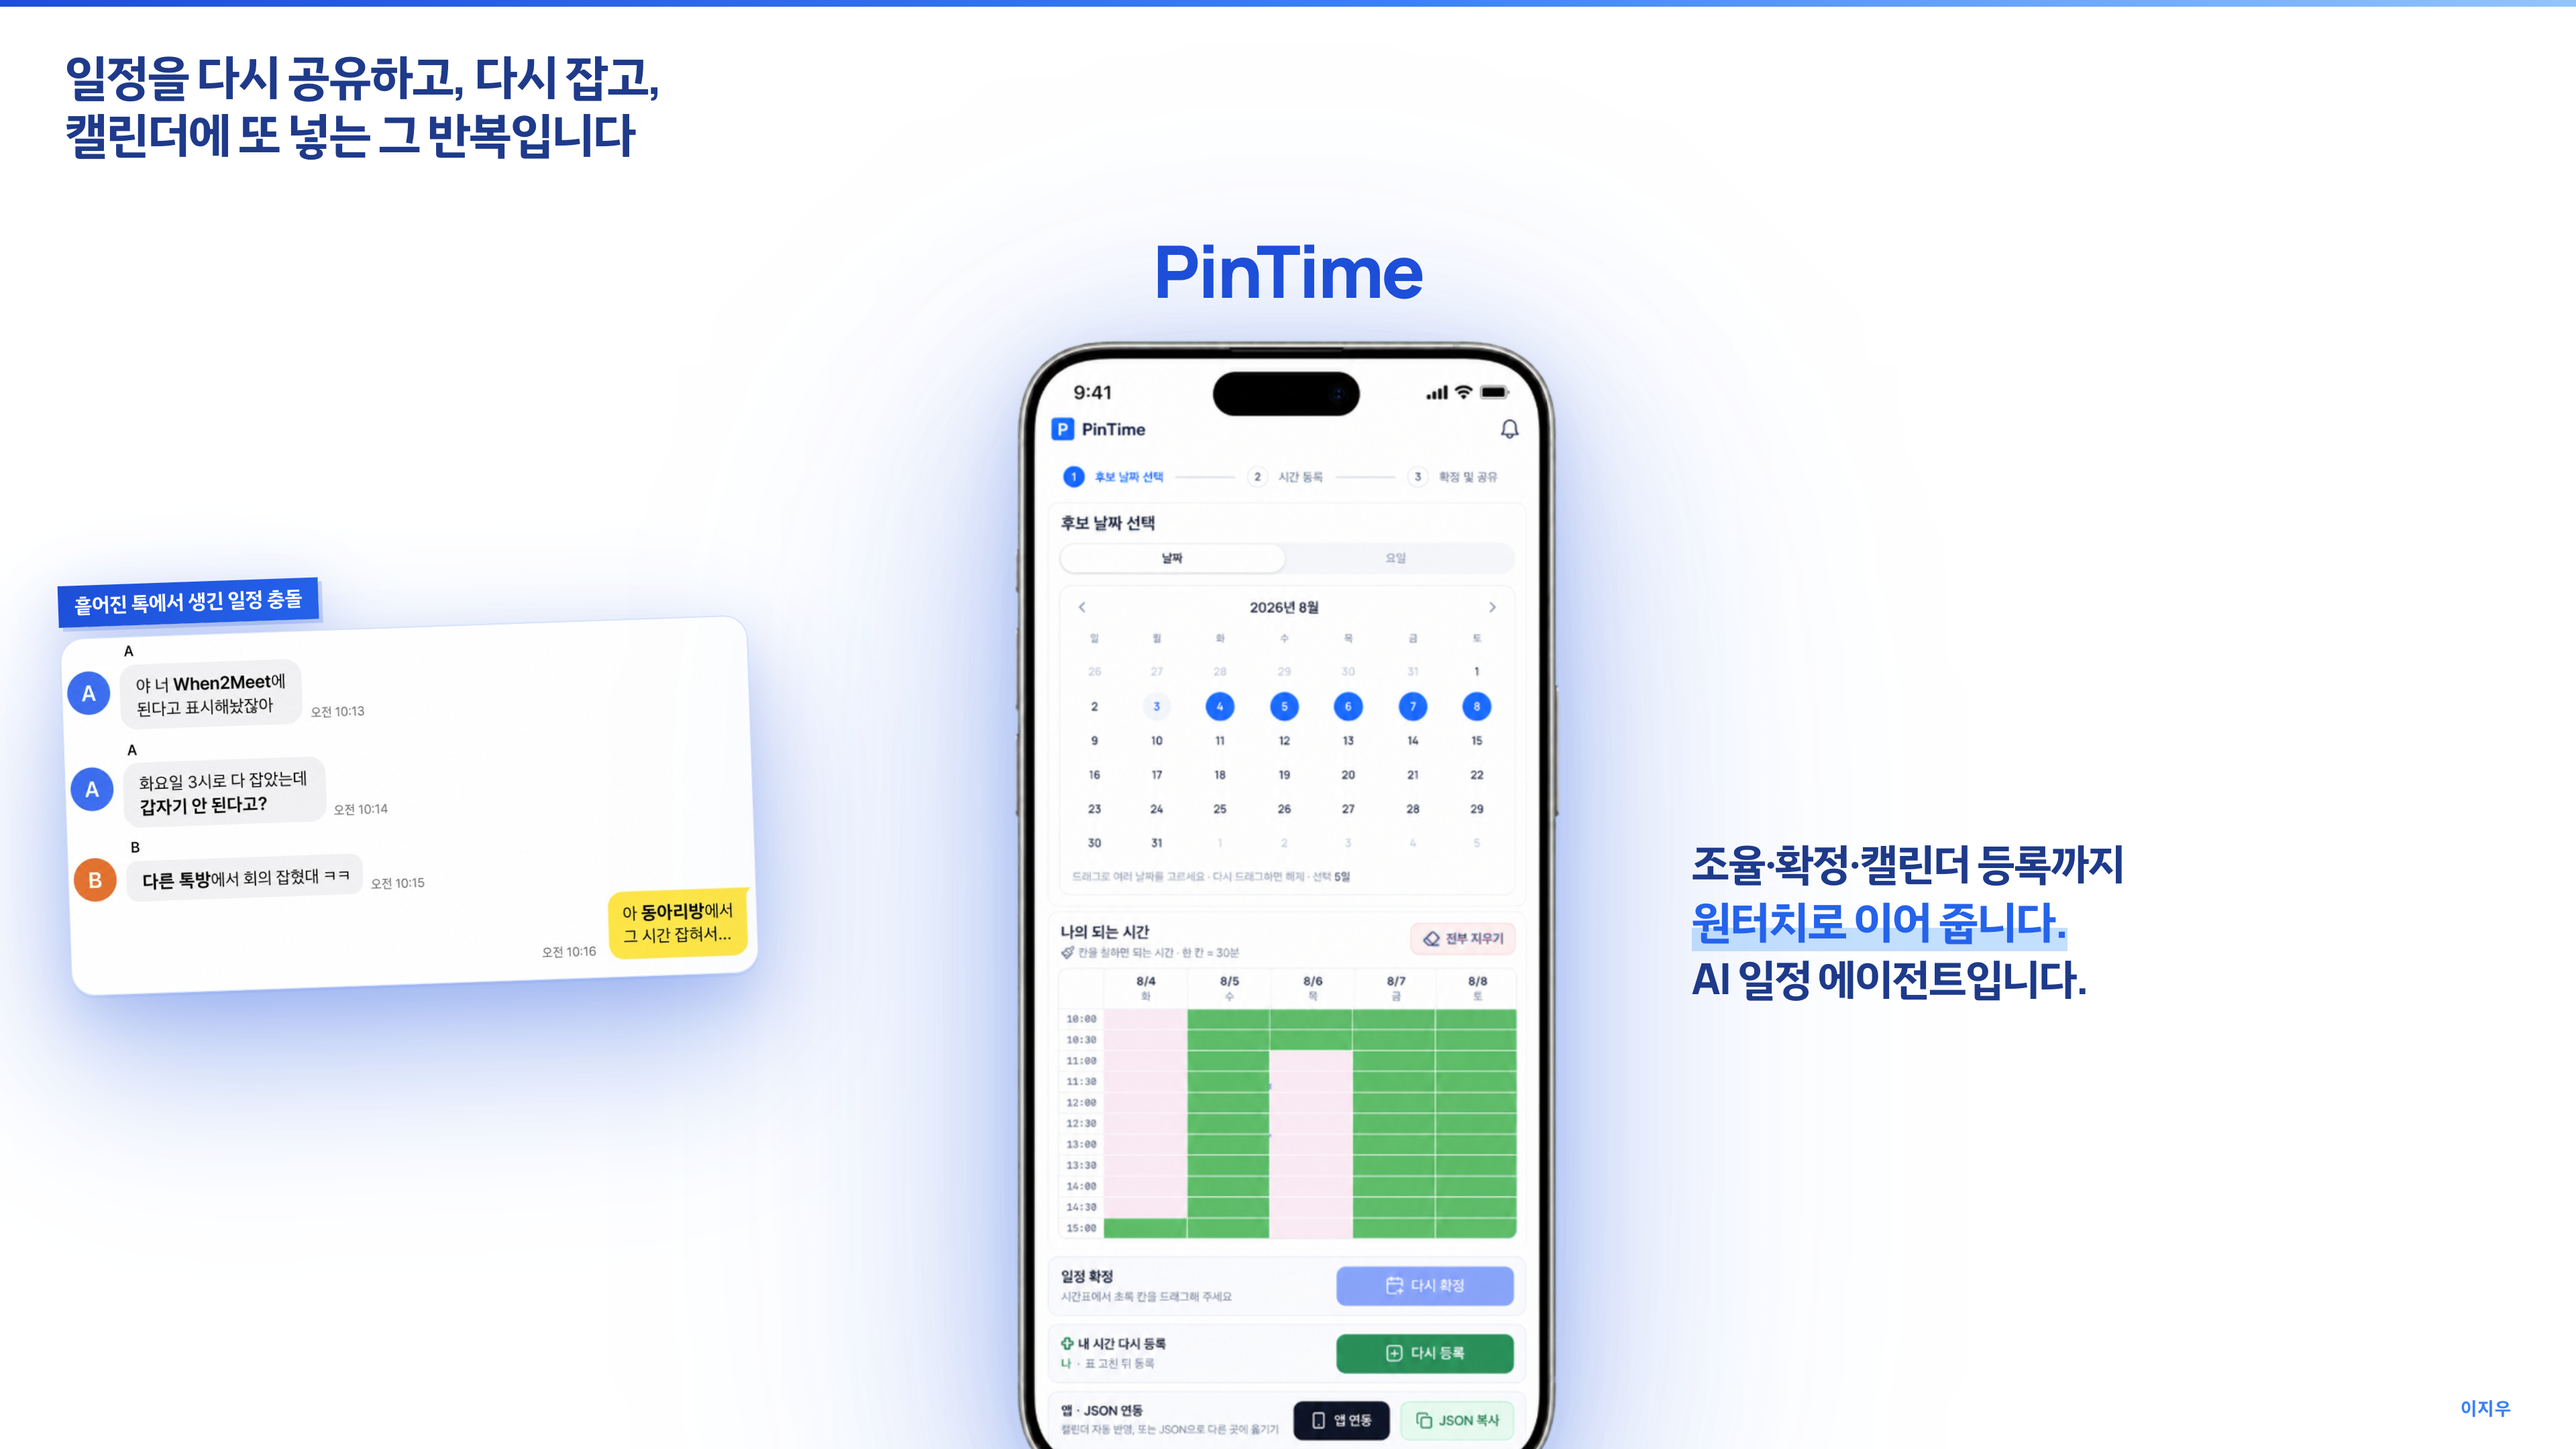
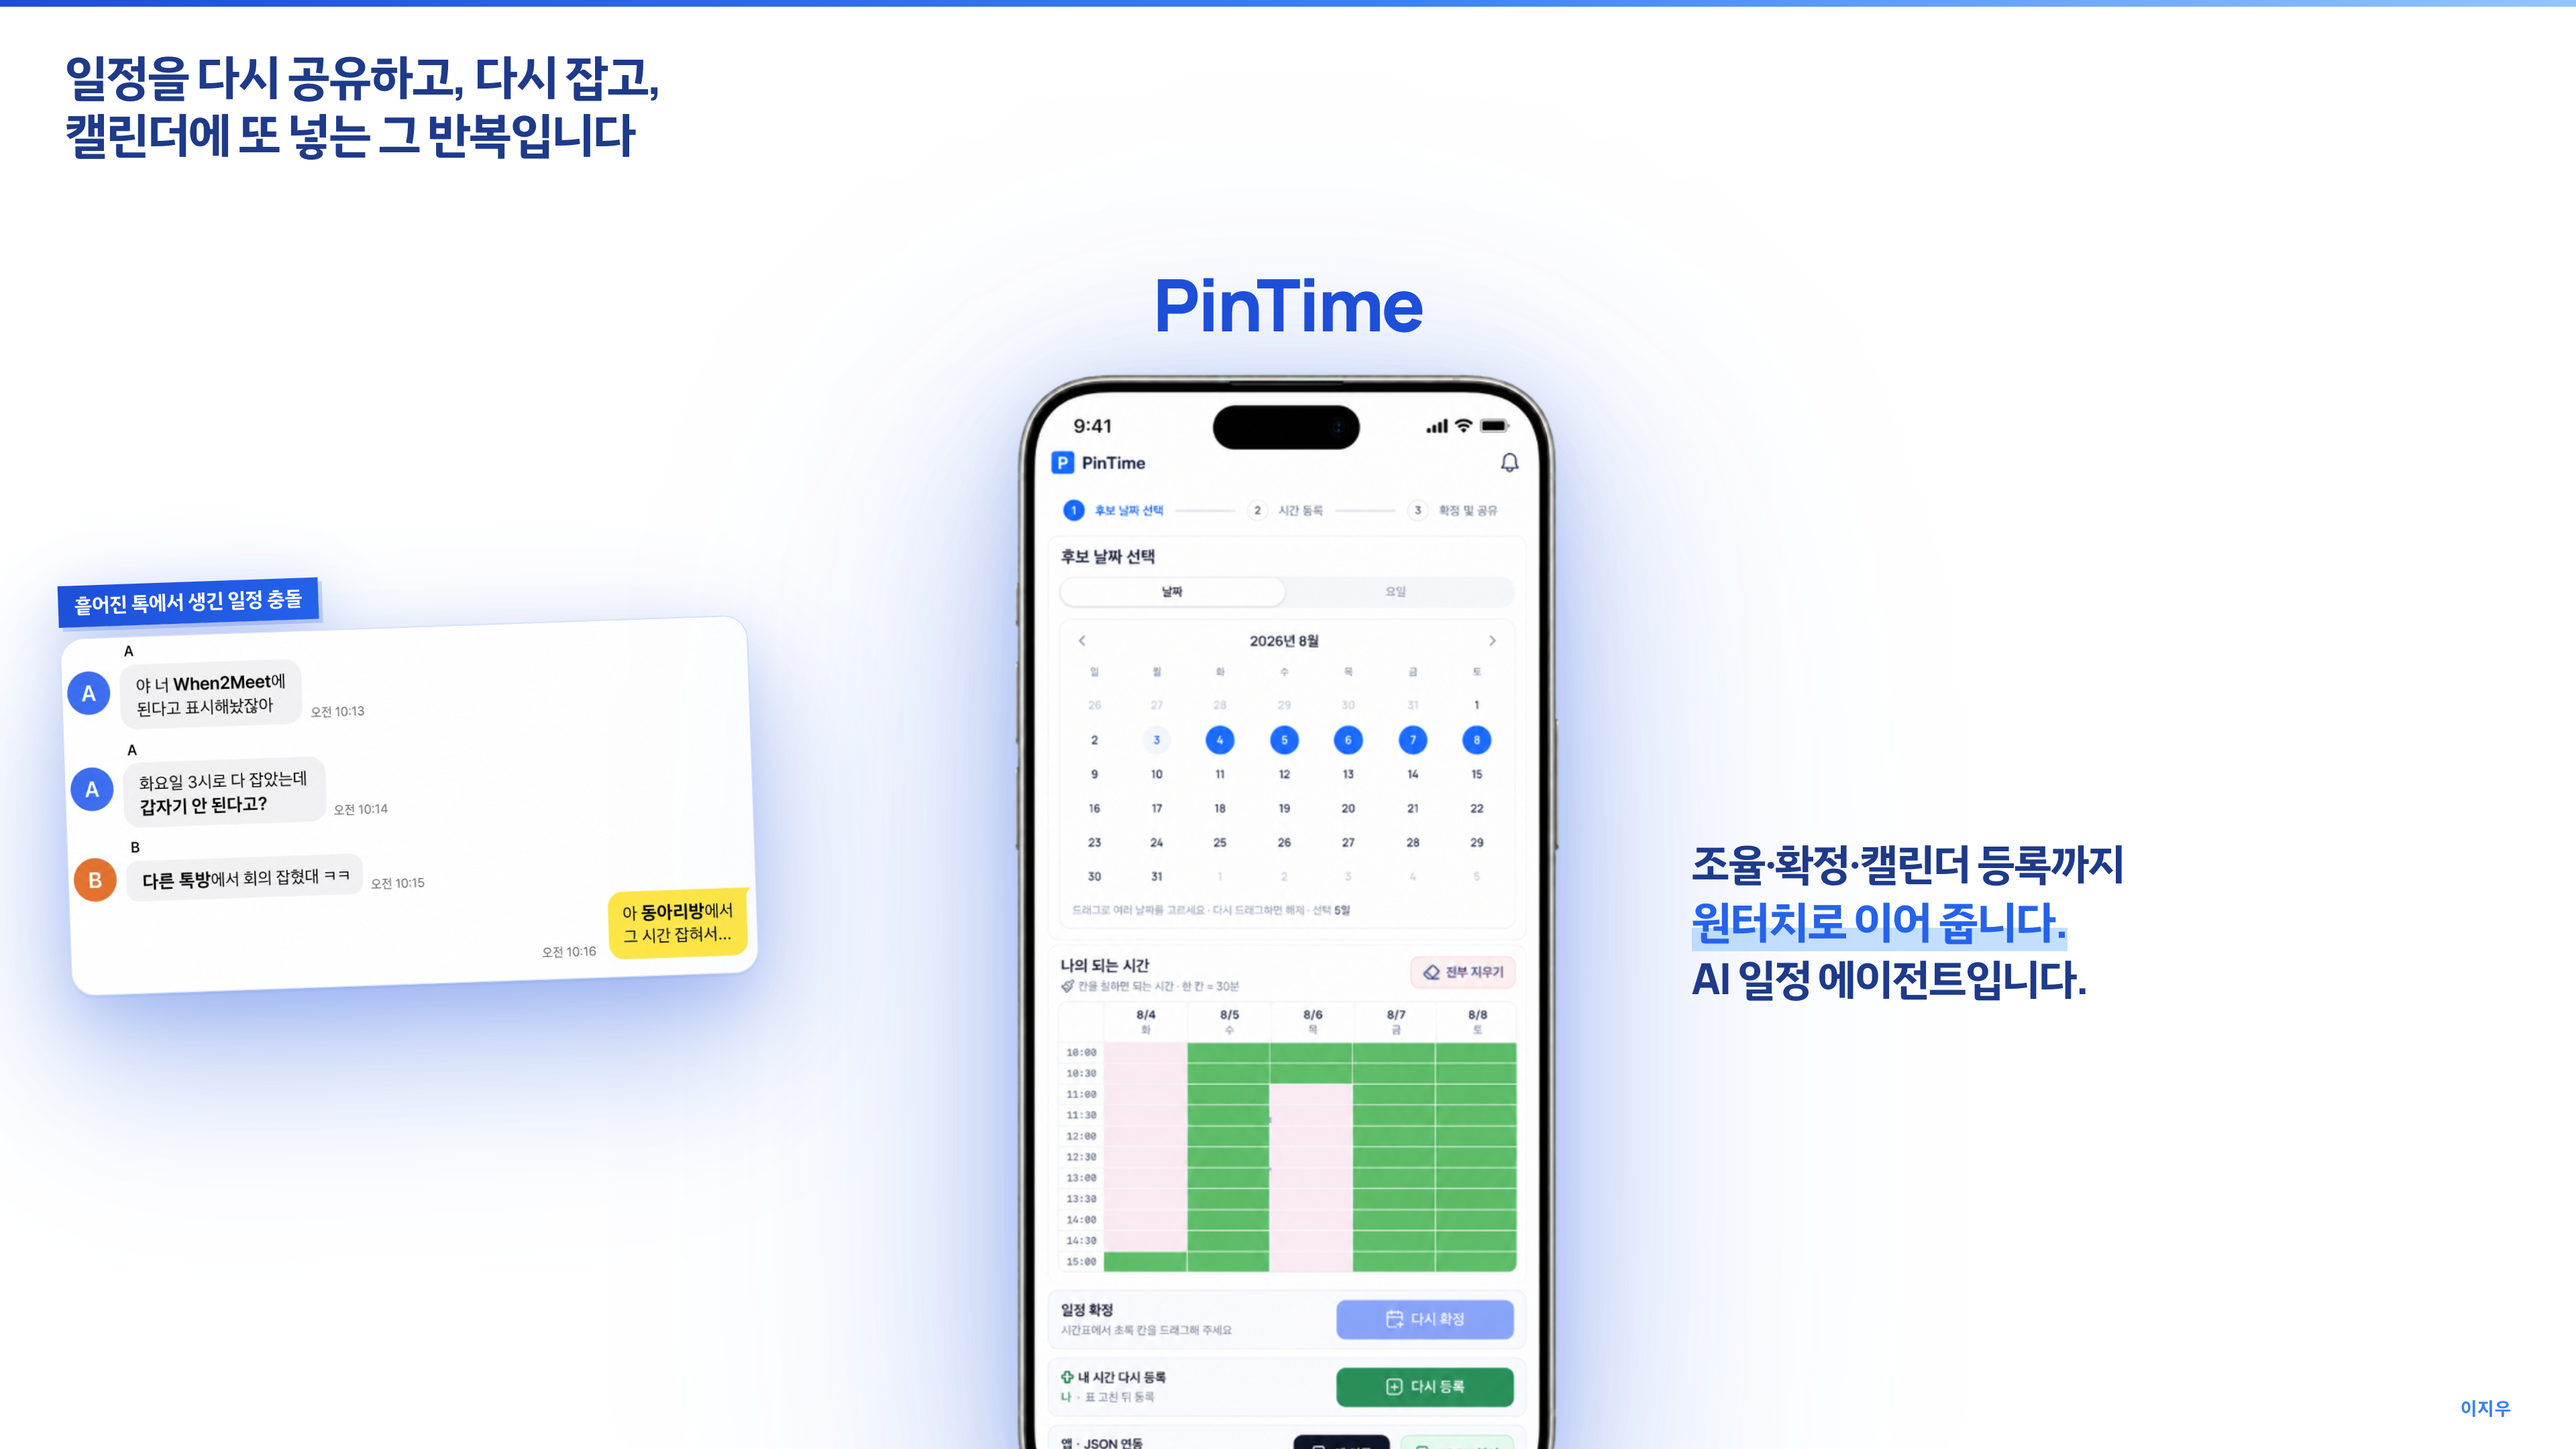
Move cover PinTime and phone down 25px.

Changed region(s): [[0.375, 0.5894, 0.625, 1.0], [0.375, 0.1551, 0.625, 0.4032], [0.4688, 0.4343, 0.5938, 0.5273]]

diff --git a/public/pitch.html b/public/pitch.html
@@ -1267,7 +1267,7 @@
         justify-self: center;
         overflow: visible;
         width: 100%;
-        transform: translateY(70px);
+        transform: translateY(95px);
       }
 
       .cover-wordmark {
